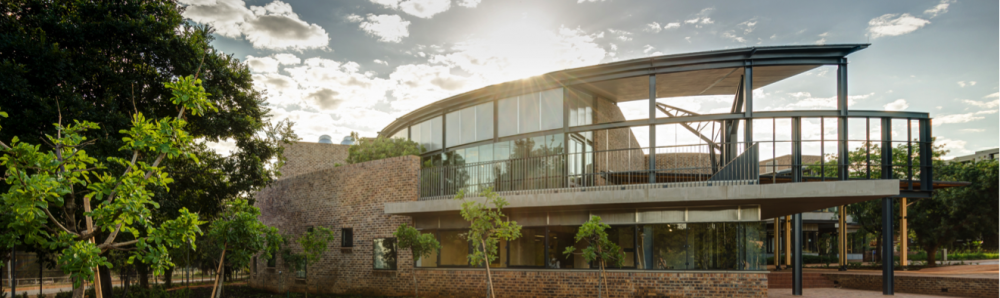
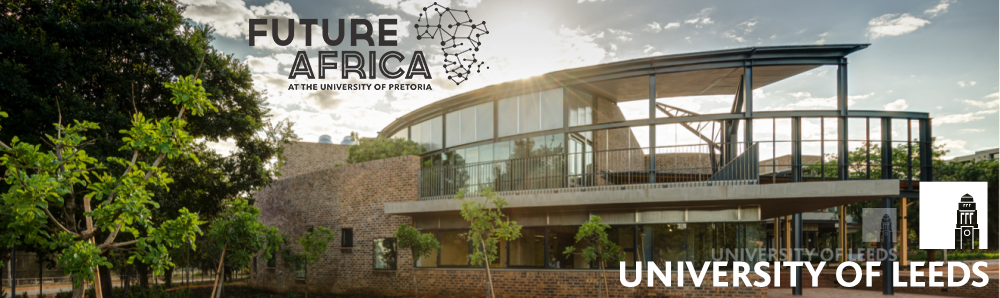
New header

Changed region(s): [[0.62, 0.604, 0.992, 0.9664], [0.248, 0.0, 0.496, 0.302]]

diff --git a/assets/main.css b/assets/main.css
@@ -80,6 +80,7 @@ th,td{
 .banner {position: relative; font-family:'Roboto Slab',serif; padding: 110px 0 0 0;}
 .top-left {font-size:3.33em; color: #505050; background: #fafafa; text-align: left; width: 1000px; height: 110px; position: absolute; padding: 0px 0 0 0; top: 0px;}
 .bottom-right {font-size:2.33em; color: #fafafa; line-height: 1.5em; width: auto; height: 100px; padding: 0px 27px 27px 0px; text-align: right; position: absolute; bottom: 0px; right: 0px; text-shadow: 0px 0px 6px #000000;}
+.bottom-left {font-size:2.33em; color: #fafafa; line-height: 1.5em; width: 980px; height: 100px; padding: 0px 0px 27px 0px; text-align: left; position: absolute; bottom: 0px; right: 0px; text-shadow: 0px 0px 6px #000000;}
 .top-right {font-size:3.33em; color: #fafafa; line-height: 1.5em; width: auto; height: 270px; padding: 0px 27px 27px 0px; text-align: right; position: absolute; bottom: 0px; right: 0px; text-shadow: 0px 0px 6px #000000;}
 
 /* Conference Title Logo */

diff --git a/index.html b/index.html
@@ -9,7 +9,7 @@
     <meta name="resource-type" content="document">
     <meta name="distribution" content="global">
     <meta name="KeyWords" content="Conference">
-    <title>Conference Template</title>
+    <title>Leeds-Africa Data Science & AI Conference</title>
 </head>
 
 <body>
@@ -22,11 +22,8 @@
             <span class="title1">in Mathematical & Physical Sciences</span>
             <hr style="height:40pt; visibility:hidden;" />            
         </div>
-        <div class="top-right">
-            <span class="title3" style="padding: 0 0 0 0;"> A Leeds-Africa Hub</span>
-        </div>
-        <div class="bottom-right">
-            October 2nd-6th, 2023 <br> Future Africa Campus, University of Pretoria
+        <div class="bottom-left">
+            2&mdash;6 October 2023 <br> University of Pretoria
         </div>
     </div>
 
